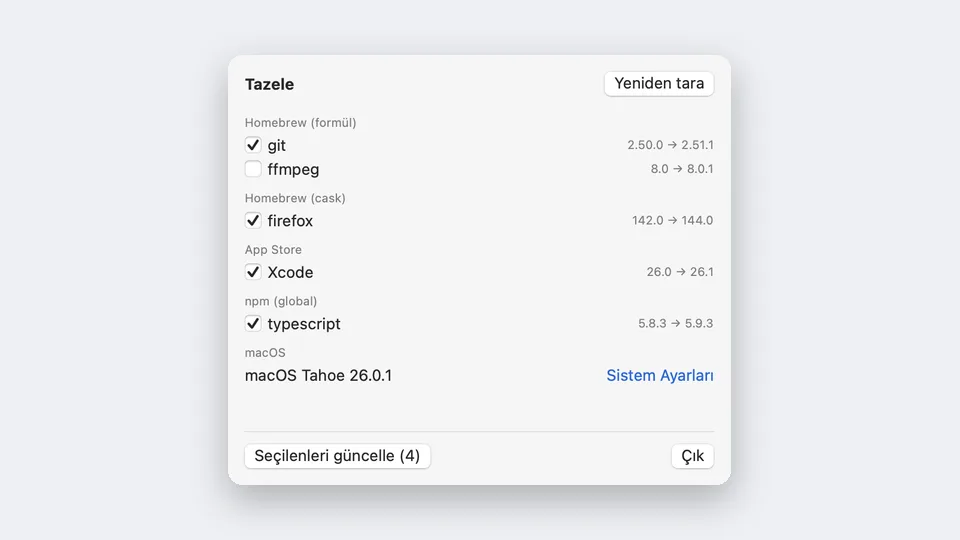
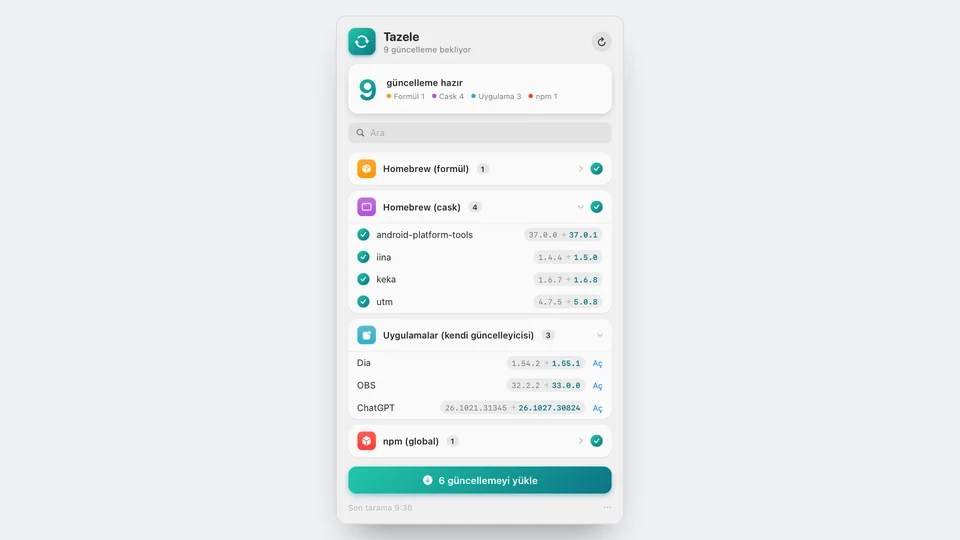
Site: Tazele kartı (TR/EN) ve görseli güncellendi

diff --git a/index.html b/index.html
@@ -133,12 +133,12 @@
 </div>
 </article>
 <article class="work reveal">
-<div class="work-thumb"><img src="/assets/img/w-tazele.webp" alt="Tazele: menü çubuğunda eski Homebrew, App Store ve npm paketlerinin seçilebilir listesi" width="960" height="540" loading="lazy"></div>
+<div class="work-thumb"><img src="/assets/img/w-tazele.webp" alt="Tazele: Homebrew, kendi güncelleyicisi olan uygulamalar ve npm için bekleyen güncellemelerin kaynağa göre gruplanmış, seçilebilir listesi" width="960" height="540" loading="lazy"></div>
 <div class="work-body">
 <p class="meta-line"><span>Swift · SwiftUI</span><span>macOS</span><span>MIT</span></p>
 <h3>Tazele</h3>
-<p>Menü çubuğundan eski Homebrew formül ve cask'lerini, App Store uygulamalarını ve global npm paketlerini listeler; seçtiklerini canlı günlükle günceller. macOS güncellemeleri yalnızca listelenir, Sistem Ayarları açılır. Henüz bir MVP.</p>
-<p class="fact">6 birim testi · sürüm <b>yok</b>, kaynaktan derlenir</p>
+<p>Menü çubuğundan eski Homebrew, App Store, npm ve kendi güncelleyicisi olan uygulamaları listeler; seçtiklerini canlı günlükle günceller. macOS güncellemelerini de kurabilir, yeniden başlatma isteyenler için onay sorar. Touch ID ile bir kez yetki verilir. Henüz bir MVP.</p>
+<p class="fact">149 birim testi · sürüm <b>yok</b>, kaynaktan derlenir</p>
 <ul class="links"><li><a href="https://github.com/yigitbuyukeren/tazele">GitHub ↗</a></li></ul>
 </div>
 </article>

diff --git a/en/index.html b/en/index.html
@@ -133,12 +133,12 @@
 </div>
 </article>
 <article class="work reveal">
-<div class="work-thumb"><img src="/assets/img/w-tazele.webp" alt="Tazele: a selectable list of outdated Homebrew, App Store and npm packages in the menu bar" width="960" height="540" loading="lazy"></div>
+<div class="work-thumb"><img src="/assets/img/w-tazele.webp" alt="Tazele: pending updates for Homebrew, self-updating apps and npm, grouped by source in a selectable list" width="960" height="540" loading="lazy"></div>
 <div class="work-body">
 <p class="meta-line"><span>Swift · SwiftUI</span><span>macOS</span><span>MIT</span></p>
 <h3>Tazele</h3>
-<p>A menu-bar list of outdated Homebrew formulae and casks, App Store apps and global npm packages; updates the selected ones with a live log. macOS updates are only listed and open System Settings. Still an MVP.</p>
-<p class="fact">6 unit tests · no release yet, build from source</p>
+<p>A menu-bar list of outdated Homebrew, App Store, npm and self-updating apps; updates the selected ones with a live log. It can install macOS updates too and asks for confirmation when a restart is needed. Touch ID grants admin permission once. Still an MVP.</p>
+<p class="fact">149 unit tests · no release yet, build from source</p>
 <ul class="links"><li><a href="https://github.com/yigitbuyukeren/tazele">GitHub ↗</a></li></ul>
 </div>
 </article>
